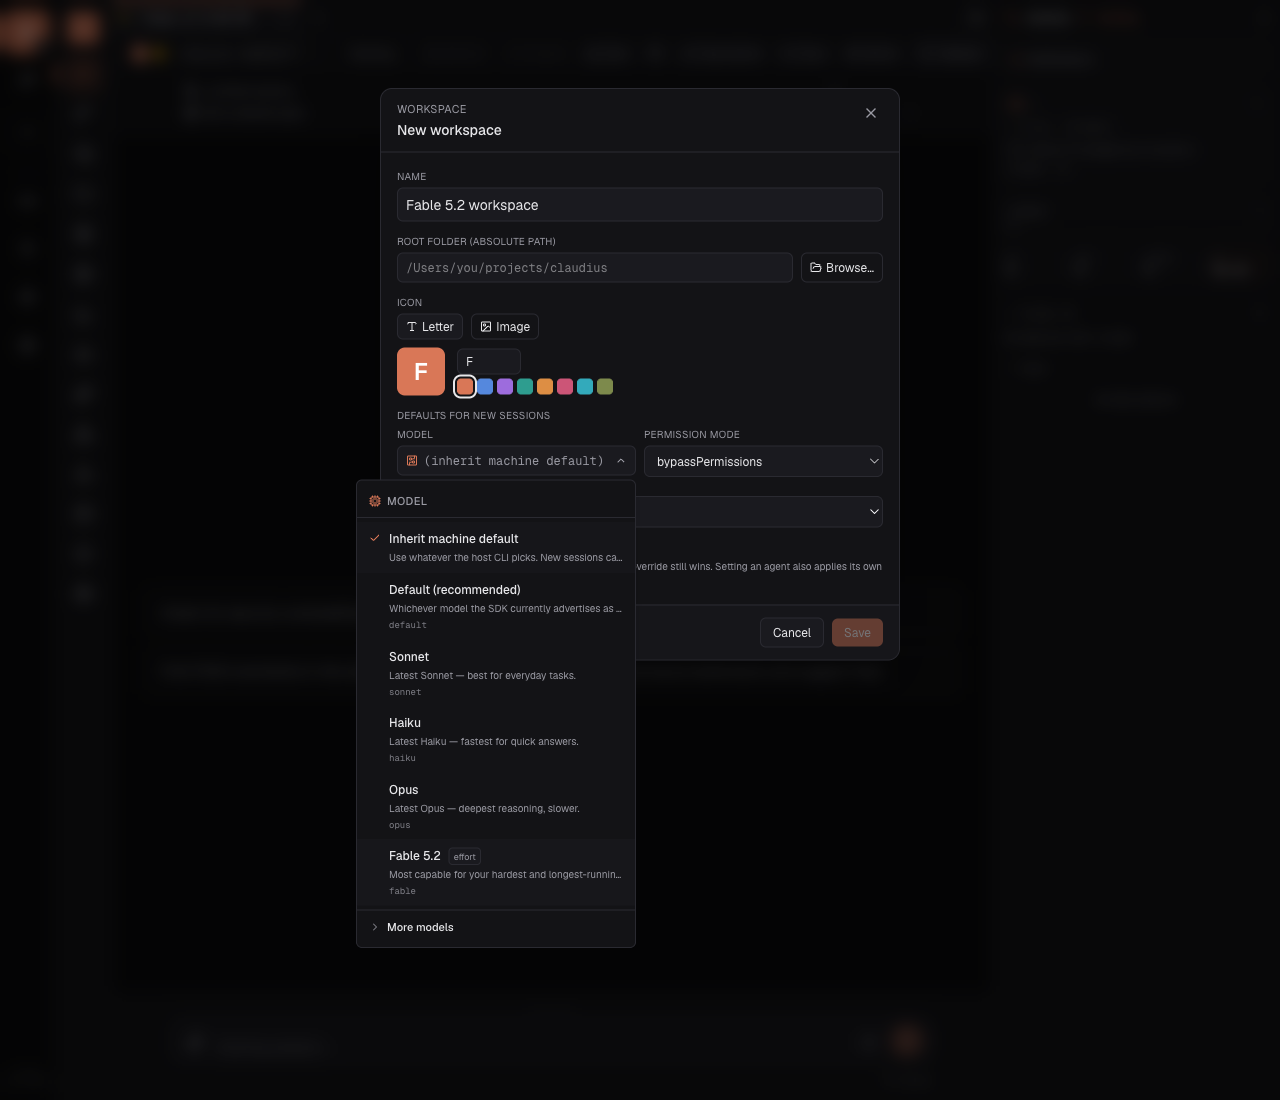
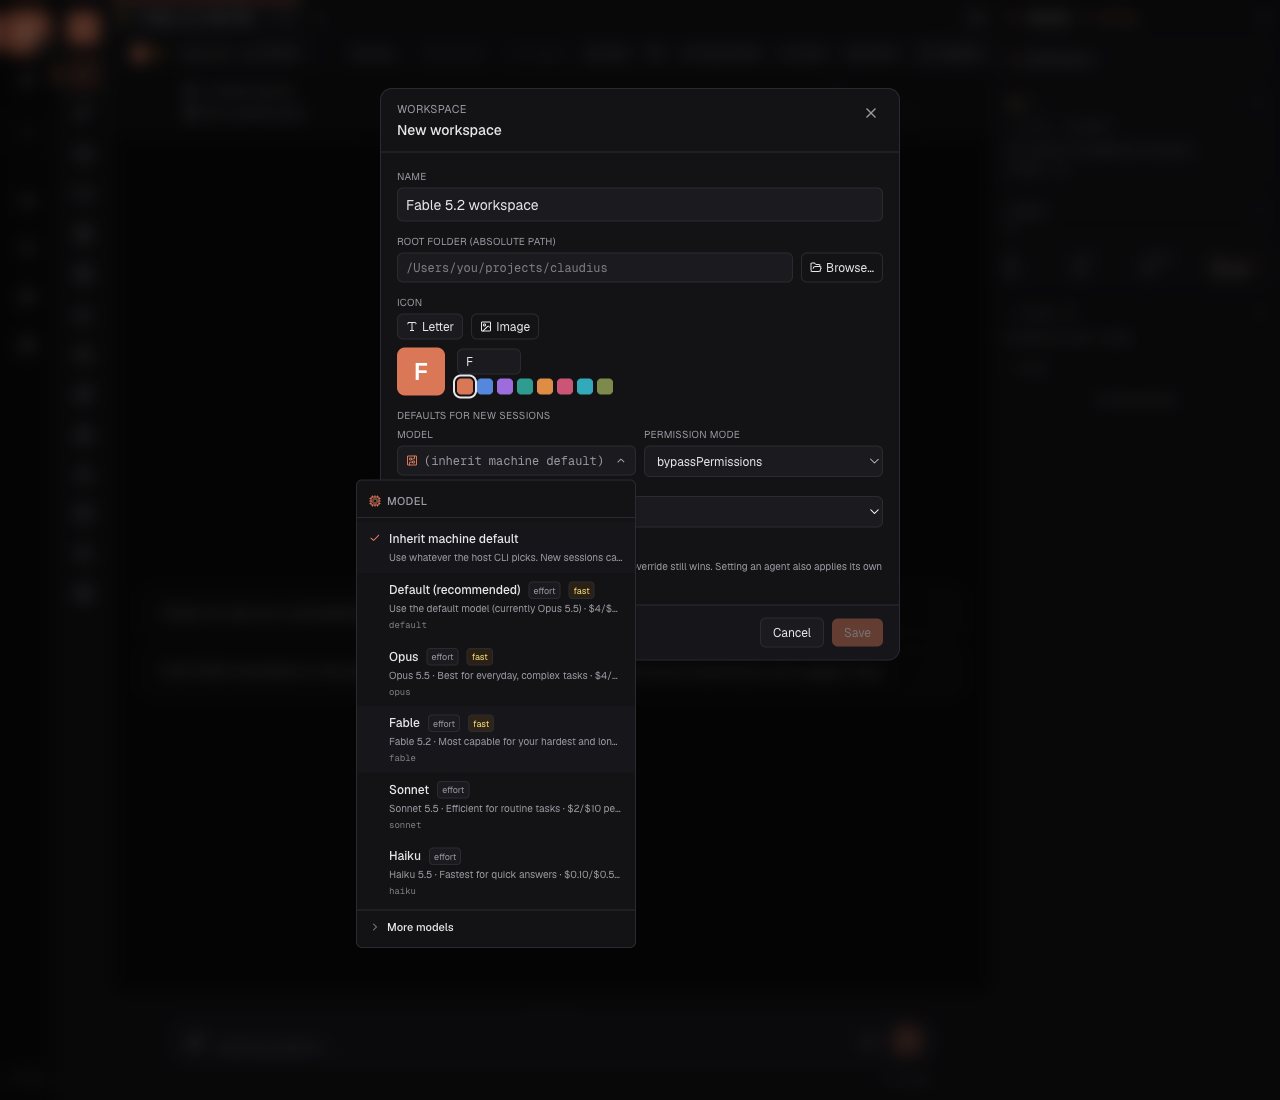
fix(cc-parity): show the credits note when the engine reports fast mode on
The picker's own fast toggle resets on reload while the session stays in
fast mode; thread the SDK-reported fastModeState through
BackgroundTasksPanel/SessionCard so the per-row usage-credits note follows
the engine.

diff --git a/tests/e2e/cc-parity-2.1.321-fast-mode-label.spec.ts b/tests/e2e/cc-parity-2.1.321-fast-mode-label.spec.ts
@@ -55,7 +55,7 @@ const MODELS = [
   },
 ];
 
-async function mockChatBackend(page: Page) {
+async function mockChatBackend(page: Page, initExtra: Record<string, unknown> = {}) {
   await page.route("**/api/sessions", async (route: Route) => {
     if (route.request().method() !== "POST") return route.fallback();
     return route.fulfill({ status: 200, contentType: "application/json", body: JSON.stringify({ id: FAKE_SESSION_ID }) });
@@ -66,7 +66,7 @@ async function mockChatBackend(page: Page) {
       headers: { "Content-Type": "text/event-stream", "Cache-Control": "no-cache", Connection: "keep-alive" },
       body: sseBody([
         { type: "ready", sessionId: FAKE_SESSION_ID },
-        { type: "sdk", message: { type: "system", subtype: "init", uuid: "sys-init-321f", model: "claude-fable-5-2" } },
+        { type: "sdk", message: { type: "system", subtype: "init", uuid: "sys-init-321f", model: "claude-fable-5-2", ...initExtra } },
         {
           type: "sdk",
           message: { type: "user", uuid: "u-1", message: { role: "user", content: [{ type: "text", text: "Profile the slow import path." }] } },
@@ -142,4 +142,20 @@ test("the Fast mode toggle names the current model", async ({ page }) => {
   // A model without fast mode has no toggle at all.
   await panel.locator('[data-testid="model-picker-option"][data-model="sonnet"]').click();
   await expect(panel.getByTestId("model-picker-fast")).toHaveCount(0);
+});
+
+test("fast mode already on (SDK-reported, e.g. after a reload) shows the credits note", async ({ page }) => {
+  // The picker's own toggle state resets on reload; the engine still reports
+  // fast mode on. The billing note must follow the engine, not the toggle.
+  await mockChatBackend(page, { fast_mode_state: "on" });
+  await page.goto("/");
+  const trigger = page.getByTestId("model-picker-trigger");
+  await expect(trigger).toContainText("Fable 5.2", { timeout: 30_000 });
+  await trigger.click();
+  const panel = page.getByTestId("model-picker-panel");
+  const fableRow = panel.locator('[data-testid="model-picker-option"][data-model="claude-fable-5-2"]');
+  await expect(fableRow.getByTestId("model-picker-row-credits")).toHaveText("Draws from usage credits");
+  // A model without fast mode never shows it.
+  const sonnetRow = panel.locator('[data-testid="model-picker-option"][data-model="sonnet"]');
+  await expect(sonnetRow.getByTestId("model-picker-row-credits")).toHaveCount(0);
 });

diff --git a/components/panels/widgets/ModelPicker.tsx b/components/panels/widgets/ModelPicker.tsx
@@ -125,6 +125,14 @@ type Props = {
    */
   fastMode?: boolean;
   /**
+   * CC 2.1.321 — the SDK-reported fast-mode state (`fast_mode_state === "on"`).
+   * `fastMode` above is only the optimistic record of the last picker toggle
+   * and resets on reload / resume, so fast mode turned on elsewhere (the
+   * `fastMode` setting, a reloaded tab) would otherwise hide the per-row
+   * "Draws from usage credits" note exactly while it applies.
+   */
+  fastModeActive?: boolean;
+  /**
    * `model` is the active row's canonical id (`resolvedModel ?? value`), so
    * the host can raise the CC 2.1.316 Opus 4.8 fast-mode deprecation notice
    * without re-resolving an alias.
@@ -170,6 +178,7 @@ export function ModelPicker({
   ultracode = false,
   onToggleUltracode,
   fastMode = false,
+  fastModeActive = false,
   onToggleFast,
   onModelsLoaded,
   advisorModel = null,
@@ -484,7 +493,7 @@ export function ModelPicker({
                         always-on note would now sit on every Fable row,
                         plan-included seats too. The `fast` chip still shows
                         the capability. */}
-                    {fastMode && m.supportsFastMode && (
+                    {(fastMode || fastModeActive) && m.supportsFastMode && (
                       <div
                         data-testid="model-picker-row-credits"
                         className="mt-0.5 truncate text-[9px] text-amber-200/80"
@@ -931,11 +940,13 @@ export function ModelPicker({
                   {fastModeLabel(activeId)}
                 </span>
                 <span className="block text-[9px] leading-tight text-[var(--muted)]">
-                  Accelerated responses on supported models.
+                  Accelerated responses from the same model.
                 </span>
                 {/* Mirror the TUI's `Draws from usage credits` confirmation
                     line under the Fast-mode toggle. Subdued amber so it reads
-                    as a cost cue rather than a warning. */}
+                    as a cost cue rather than a warning. Kept while the toggle
+                    is off on purpose: it's the heads-up before you turn fast
+                    on (the per-row note above only shows once it's on). */}
                 <span className="mt-0.5 block text-[9px] leading-tight text-amber-200/80">
                   Draws from usage credits.
                 </span>

diff --git a/components/panels/BackgroundTasksPanel.tsx b/components/panels/BackgroundTasksPanel.tsx
@@ -161,6 +161,9 @@ type Props = {
   onChangeUltracode?: (enabled: boolean) => Promise<void> | void;
   /** Whether fast mode is on — shown as a SessionCard badge. */
   fastMode?: boolean;
+  /** SDK-reported fast-mode state; drives the picker's per-row credits note
+   *  when fast is on but the local toggle reset (e.g. after a reload). */
+  fastModeState?: "off" | "cooldown" | "on" | null;
   /** Toggle fast mode. Same plumbing rationale as `onChangeUltracode`. */
   onChangeFast?: (enabled: boolean, model?: string) => Promise<void> | void;
   /** Per-session advisor model (the Claude Code "Advisor" picker). */
@@ -299,6 +302,7 @@ export function BackgroundTasksPanel({
   ultracode = false,
   onChangeUltracode,
   fastMode = false,
+  fastModeState = null,
   onChangeFast,
   advisorModel = null,
   onChangeAdvisorModel,
@@ -609,6 +613,7 @@ export function BackgroundTasksPanel({
           ultracode={ultracode}
           onChangeUltracode={onChangeUltracode}
           fastMode={fastMode}
+          fastModeState={fastModeState}
           onChangeFast={onChangeFast}
           advisorModel={advisorModel}
           onChangeAdvisorModel={onChangeAdvisorModel}

diff --git a/components/panels/widgets/SessionCard.tsx b/components/panels/widgets/SessionCard.tsx
@@ -78,6 +78,8 @@ type Props = {
    * ultracode badge when enabled.
    */
   fastMode?: boolean;
+  /** SDK-reported fast-mode state, forwarded to the picker (CC 2.1.321). */
+  fastModeState?: "off" | "cooldown" | "on" | null;
   /** Toggle fast mode. Surfaced in the picker on fast-capable models. */
   /** `model` — see ModelPicker's `onToggleFast` (CC 2.1.316). */
   onChangeFast?: (enabled: boolean, model?: string) => Promise<void> | void;
@@ -116,6 +118,7 @@ export function SessionCard({
   ultracode = false,
   onChangeUltracode,
   fastMode = false,
+  fastModeState = null,
   onChangeFast,
   advisorModel = null,
   onChangeAdvisorModel,
@@ -328,6 +331,7 @@ export function SessionCard({
               : undefined
           }
           fastMode={fastMode}
+          fastModeActive={fastModeState === "on"}
           onModelsLoaded={(models) => {
             fastModelsRef.current = {
               sessionId,
